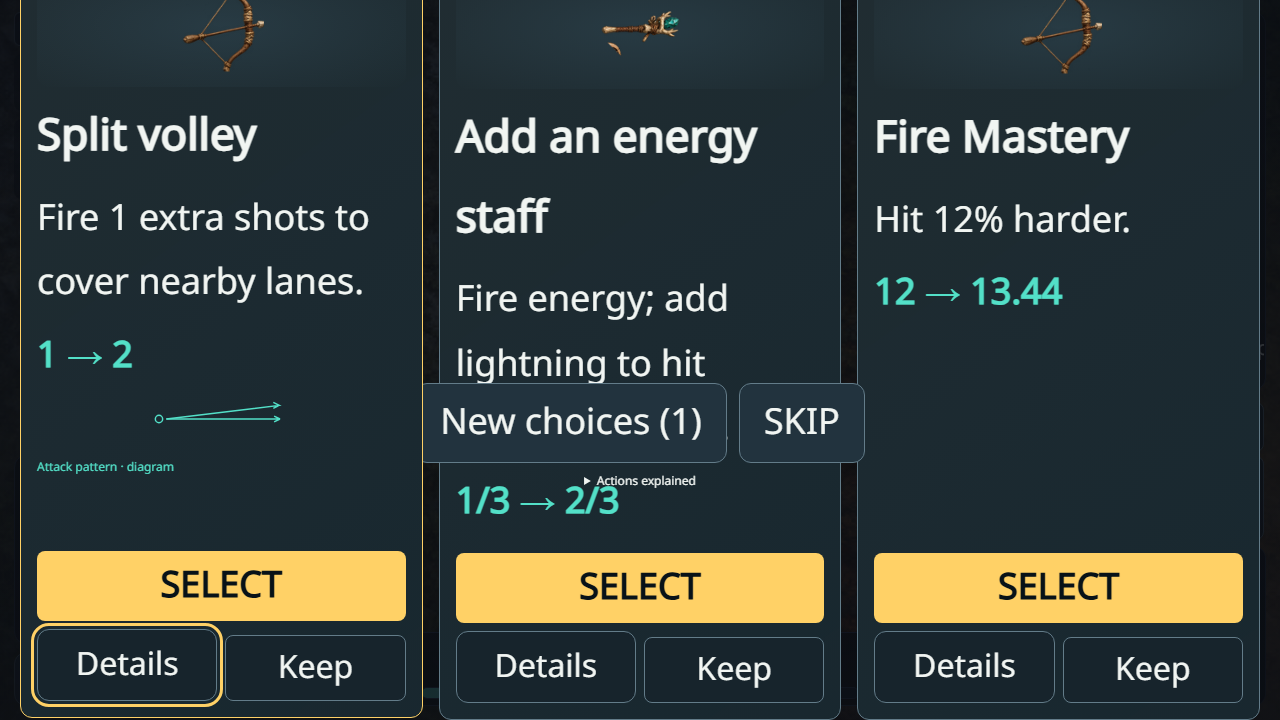
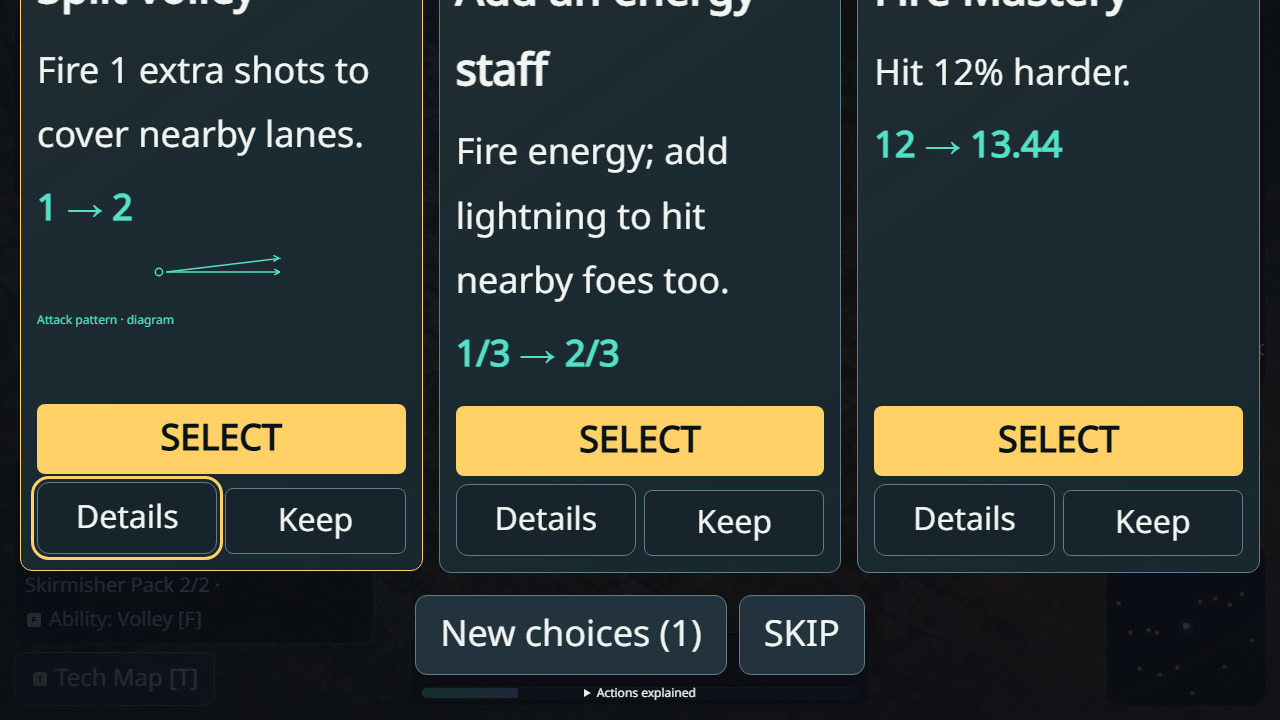
fix: keep large-text draft actions below cards
Preserve negative screenshot and add overlap regression. Match guardian presentation to six actual emitters. Canonical core and both cohort policies unchanged; ClassC gate remains failing.

diff --git a/e2e/v53Weapons.spec.ts b/e2e/v53Weapons.spec.ts
@@ -1,9 +1,10 @@
 import {test,expect} from '@playwright/test';
-import {startRun,assertNoRawKeys,revealPauseSection} from './helpers';
+import {startRun,assertNoRawKeys} from './helpers';
 for(const lang of ['en','th']as const)for(const scale of [1,2]as const)test(`visual weapon choices ${lang} scale${scale}`,async({page})=>{
  await page.setViewportSize({width:1280,height:720});await startRun(page,'EPOCH-GOLDEN-001',{lang,uiScale:scale});
  await page.evaluate(()=>(window as any).__seedE2E.grant(100));await expect(page.locator('#draft-screen .card')).toHaveCount(3);
  await assertNoRawKeys(page);for(const card of await page.locator('#draft-screen .card').all()){await expect(card.locator('.weapon-figure')).toBeVisible();expect(await card.evaluate(e=>getComputedStyle(e).overflowY)).not.toBe('auto');}
+ if(scale===2){const bounds=await page.evaluate(()=>({cards:document.querySelector('#draft-screen .cards')!.getBoundingClientRect().bottom,actions:document.querySelector('#draft-screen .draft-agency')!.getBoundingClientRect().top}));expect(bounds.actions).toBeGreaterThanOrEqual(bounds.cards);}
  if(scale===1){for(const button of await page.locator('.card-select,.card-details,.card-reserve,#draft-screen .draft-agency button').all())await expect(button).toBeInViewport();expect(await page.locator('#draft-screen').evaluate(e=>e.scrollHeight<=e.clientHeight+2)).toBe(true);}
  const before=await page.evaluate(()=>(window as any).__seedE2E.draftFacts().taken);
  await page.locator('.card-details').first().click();await expect(page.locator('.draft-detail-panel')).toBeVisible();await page.keyboard.press('1');await page.keyboard.press('Enter');expect(await page.evaluate(()=>(window as any).__seedE2E.draftFacts().taken)).toBe(before);

diff --git a/src/styles.css b/src/styles.css
@@ -918,7 +918,7 @@ html[data-contrast="high"] { --color-canvas: #000000; --color-surface: #080D10; 
 .draft-detail-content {overflow-y:auto;min-height:0;flex:1;line-height:1.8;}
 .draft-detail-content .card-preview {display:none;}
 #ui #draft-screen[data-large-type=true] {overflow-y:auto;}
-#draft-screen[data-large-type=true] .cards-wrapper {flex:0 0 auto;}
+#ui #draft-screen[data-large-type=true] .cards-wrapper {flex:none;height:auto;max-height:none;}
 #draft-screen[data-large-type=true] .cards {height:auto;}
 #draft-screen[data-large-type=true] .card {min-height:620px;height:auto;}
 #draft-screen[data-large-type=true] .draft-agency {flex-shrink:0;}
@@ -928,7 +928,7 @@ html[data-contrast="high"] { --color-canvas: #000000; --color-surface: #080D10; 
 .origin-choice .weapon-figure {height:42px;background:none;}
 .origin-choice .weapon-illustration {transform:scale(.38);}
 .origin-example {display:block;font-size:var(--font-caption);line-height:1.8;font-weight:400;}
-@media(max-width:760px){#ui #draft-screen{overflow-y:auto;}#draft-screen .cards-wrapper{flex:0 0 auto;}#draft-screen .cards{height:auto;grid-template-columns:1fr;}#draft-screen .card{height:auto;min-height:470px;}}
+@media(max-width:760px){#ui #draft-screen{overflow-y:auto;}#ui #draft-screen .cards-wrapper{flex:none;height:auto;max-height:none;}#draft-screen .cards{height:auto;grid-template-columns:1fr;}#draft-screen .card{height:auto;min-height:470px;}}
 
 #draft-screen .draft-agency-help{font-size:12px;line-height:1.7;flex:none;}
 #draft-screen .draft-agency-help[open] .draft-hints,#draft-screen .draft-agency-help[open] .draft-stays{display:block;}

diff --git a/tests/render/multiEquipment.test.ts b/tests/render/multiEquipment.test.ts
@@ -1,3 +1,5 @@
+import {guardianCount} from '../../src/game/render/weaponPresentation';
+import {equipWeapon} from '../helpers/equipWeapon';
 import {it,expect} from 'vitest';
 import {HeroEquipment} from '../../src/game/render/HeroEquipment';
 import {RunSimulation} from '../../src/core/sim/RunSimulation';
@@ -8,3 +10,5 @@ it('renders a secondary emitter on consecutive frames without sparse-slot failur
  const renderer=new HeroEquipment({add:{image}} as any),g:any=new Proxy({},{get:()=>()=>{}});
  renderer.draw(g,s,0,true);expect(()=>renderer.draw(g,s,0,true)).not.toThrow();
 });
+
+it('guardian presentation obeys the actual six-projectile-emitter cap',()=>{const sim=new RunSimulation({masterSeed:'EPOCH-GOLDEN-001'});equipWeapon(sim,'defense');sim.state.weaponStage.defense=4;sim.state.build.bonusGuardians=10;expect(guardianCount(sim.state)).toBe(6);});

diff --git a/src/game/render/weaponPresentation.ts b/src/game/render/weaponPresentation.ts
@@ -6,5 +6,5 @@ import {getWeaponStage} from '../../core/combat/weapons';
 export function guardianCount(s:RunState):number {
  if(!equippedFamilies(s).includes('defense'))return 0;
  const stage=getWeaponStage('defense',s.weaponStage.defense);
- return Math.min(8,(stage.archetype==='summon'?stage.count:0)+s.build.bonusGuardians);
+ return Math.min(6,(stage.archetype==='summon'?stage.count:0)+s.build.bonusGuardians);
 }

diff --git a/docs/V53_OWNER_PACKET.md b/docs/V53_OWNER_PACKET.md
@@ -48,3 +48,5 @@ Fullcheck:670/672ผ่าน,2fail; energy-charge fixtureที่แก้meta
 
 [ข้อมูลผลตรวจ](evidence/v53/local-verification.json) · [ภาพไทย720p](evidence/v53/choices-th-1.png) · [ภาพEnglish200%](evidence/v53/choices-en-2.png)
 Exact-SHA build/package, Natural36และCIตามPR receipt ไม่เอาผลparentมาอ้างเป็นผลcandidate
+
+ตรวจภาพจริงพบ200%มีปุ่มagencyซ้อนการ์ดแม้ปุ่มกดได้ เพิ่มRED geometry testได้595.61<933.34 แก้specificityของflexไม่ให้wrapperหด แล้วbrowser7/7ผ่านพร้อมassert EN/THไม่ซ้อน เก็บ[ภาพลบ](evidence/v53/negative-200-overlap.png) ภาพEnglish200%ปัจจุบันเป็นworkspaceที่เลื่อนลงมาหาปุ่ม นอกจากนี้guardian presentationจำกัด6ตัวเท่าจำนวนemitterจริง ไม่แสดง8ตัวปลอม ไม่มีการเปลี่ยนsrc/coreหรือcohort controllersในcorrectionนี้

diff --git a/SESSION_HANDOFF.md b/SESSION_HANDOFF.md
@@ -1,3 +1,9 @@
+# V5.3 presentation correction
+
+Actual screenshot review exposed200% agency/card overlap; new geometry RED reproduced it, specificity fix and EN/TH browser7/7 GREEN. Guardian presentation now caps6 matching actual emitters; focused8/8 GREEN. Canonical core/controllers are identical to8490a11 for ongoing independent Natural36 evidence. Distribution remains FAILED_REGRESSION; see new DraftPR44. No acceptance gate lowered.
+
+---
+
 # V5.3 candidate handoff — FAILED_REGRESSION
 
 Branch feat/v53-visual-weapons-20261105, parent7c8fc55 / DraftPR43. Content28/Save4, worldgen3/child-laws18. Visual-first Draft and real3-slot owned weapons implemented; checkpoint/resume/World2 regressions and relevant EN/TH browser checks pass. Fullcheck initially670/672; one old charge fixture corrected and targeted6/6pass. Distribution ClassC still fails unchanged thresholds; stop further bias experiments, no clean-playtest/release acceptance. See docs/V53_OWNER_PACKET.md, docs/V53_ISSUE_LEDGER.md, docs/ADR/0059-owned-weapons-and-run-checkpoint.md and the new Draft PR exact-source receipt. Human1/5 baseline unchanged. Preserve private owner files/launcher/.cursor. No merge/publish/force-push.
